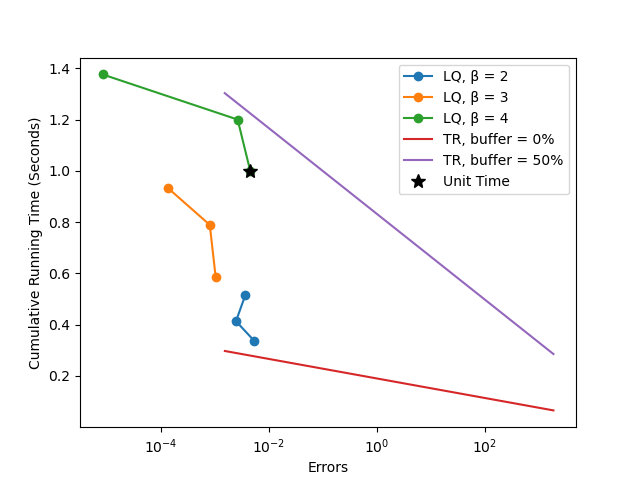
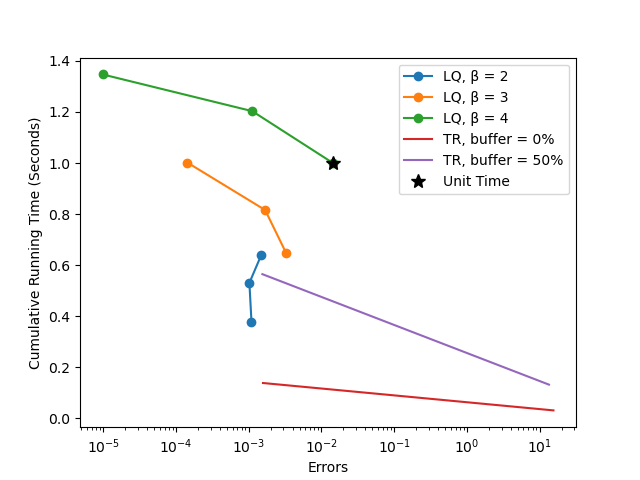
Going to clean up classes a little

diff --git a/2DTiming_TRvsLQ_Loop.py b/2DTiming_TRvsLQ_Loop.py
@@ -14,7 +14,7 @@ radius = 2
 h = 0.05
 betaVals = [2,3,4]
 bufferVals = [0, 0.5]
-endTime = 10#30
+endTime = 5#30
 spacingLQVals = [0.38, 0.3, 0.25]
 spacingTRVals = [0.3, 0.2]
 
@@ -81,9 +81,12 @@ for beta in betaVals:
         # SDE parameter creation
         parametersLQ = Parameters(sde, beta, radius, spacingLQ, spacingLQ+0.1, h,useAdaptiveMesh =adaptive, timeDiscretizationType = "EM", integratorType="LQ")
 
-        startTimeLQ = time.time()
+
         simulationLQ = Simulation(sde, parametersLQ, endTime)
-        stepByStepTimingLQ = simulationLQ.computeAllTimes(sde, simulationLQ.pdf, parametersLQ)
+
+        startTimeLQ = time.time()
+        simulationLQ.setUpTransitionMatrix(sde, parametersLQ)
+        stepByStepTimingLQ = simulationLQ.computeAllTimes(sde, parametersLQ)
         totaTimeLQ = time.time() - startTimeLQ
 
         meshTrueSolnLQ = simulationLQ.meshTrajectory[-1]
@@ -106,9 +109,11 @@ for bufferVal in bufferVals:
         meshTR = get2DTrapezoidalMeshBasedOnLejaQuadratureSolution(simulationLQ, spacingTR, bufferVal)
         parametersTR = Parameters(sde, beta, radius, spacingTR, spacingTR, h,useAdaptiveMesh =False, timeDiscretizationType = "EM", integratorType="TR", OverideMesh = meshTR)
 
-        startTimeTR = time.time()
         simulationTR = Simulation(sde, parametersTR, endTime)
-        stepByStepTimingTR = simulationTR.computeAllTimes(sde, simulationTR.pdf, parametersTR)
+        startTimeTR = time.time()
+        simulationTR.setUpTransitionMatrix(sde, parametersTR)
+
+        stepByStepTimingTR = simulationTR.computeAllTimes(sde, parametersTR)
         totalTimeTR = time.time() - startTimeTR
 
         meshTrueSolnTR = simulationTR.meshTrajectory[-1]

diff --git a/DTQAdaptive.py b/DTQAdaptive.py
@@ -47,12 +47,18 @@ spatialDiff = False
 sde = SDE(dimension, driftFunction, diffusionFunction, spatialDiff)
 parameters = Parameters(sde, beta, radius, kstepMin, kstepMax, h, useAdaptiveMesh =True, timeDiscretizationType = "EM", integratorType = "LQ")
 simulation = Simulation(sde, parameters, endTime)
+
+start = time.time()
 simulation.setUpTransitionMatrix(sde, parameters)
+TMTime = time.time()-start
 
 start = time.time()
 simulation.computeAllTimes(sde, parameters)
 end = time.time()
-print(end-start, '*****************************************')
+print("\n")
+print("Transition Matrix timing:", TMTime)
+print("\n")
+print("Stepping timing",end-start, '*****************************************')
 
 
 
